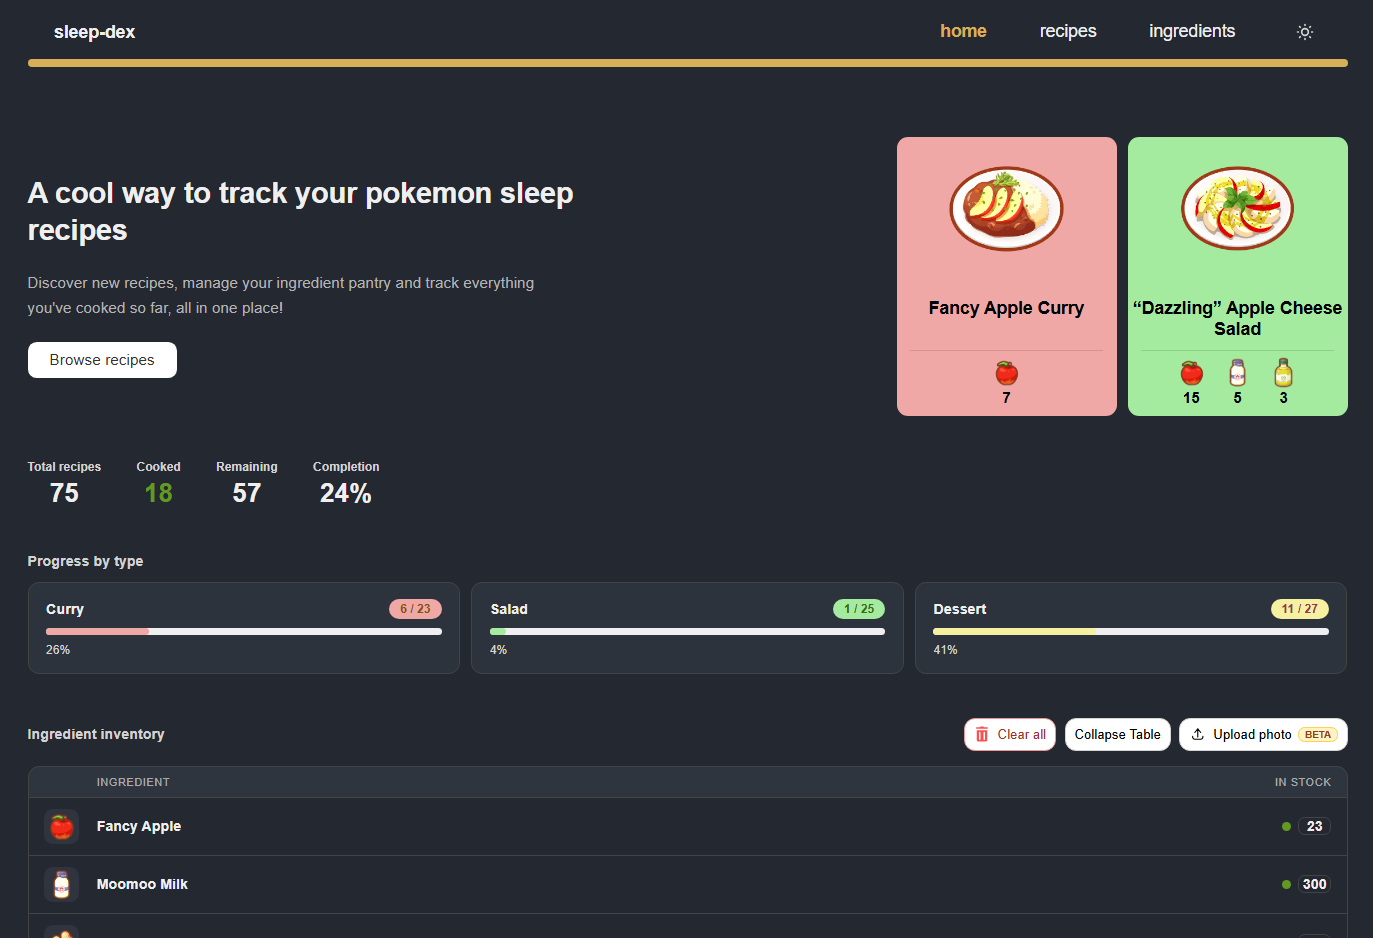
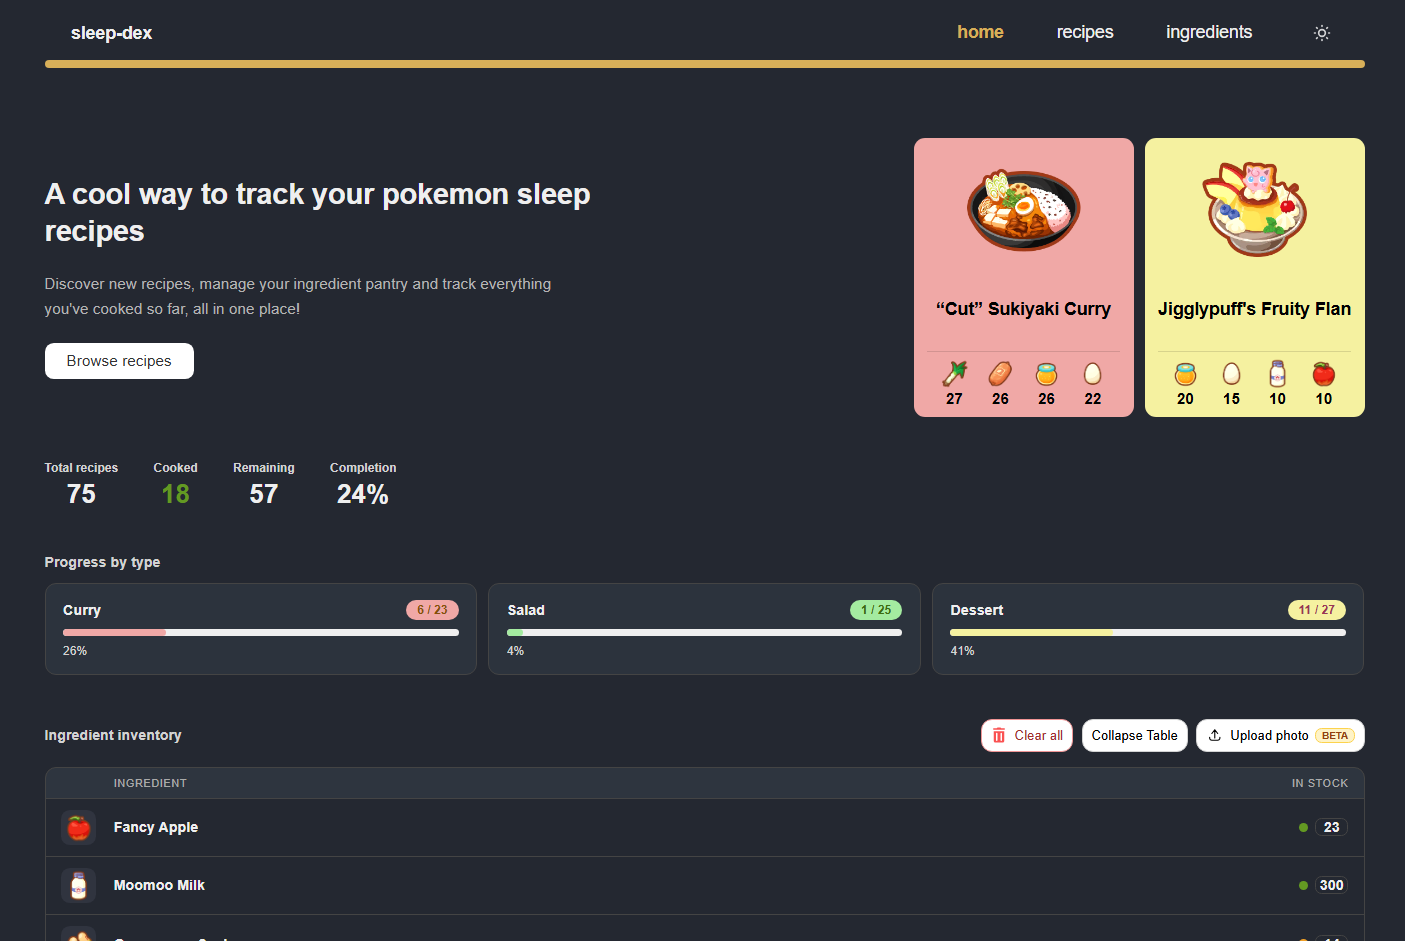
slight changes to UI and theme service

diff --git a/src/app/shared/components/navbar/navbar.html b/src/app/shared/components/navbar/navbar.html
@@ -4,9 +4,9 @@
             <li class="main"><a routerLink="/" >sleep-dex</a></li>
 
             <div class="nav-links">
-                <li><a routerLink="/" routerLinkActive="active" [routerLinkActiveOptions]="{ exact: true }">home</a></li>
-                <li><a routerLink="/recipes" routerLinkActive="active">recipes</a></li>
-                <li><a routerLink="/ingredients" routerLinkActive="active">ingredients</a></li>
+                <li><a routerLink="/" routerLinkActive="active" [routerLinkActiveOptions]="{ exact: true }">Home</a></li>
+                <li><a routerLink="/recipes" routerLinkActive="active">Recipes</a></li>
+                <li><a routerLink="/ingredients" routerLinkActive="active">Ingredients</a></li>
                 
                 <li>
                     <button class="theme-btn" (click)="themeService.toggle()">
@@ -28,9 +28,9 @@
     </div>
     <div class="seperator"></div>
     <div class="mobile-drawer" [class.open]="menuOpen">
-        <a routerLink="/" routerLinkActive="active" (click)="toggleMenu()" [routerLinkActiveOptions]="{ exact: true }">home</a>
-        <a routerLink="/recipes" routerLinkActive="active" (click)="toggleMenu()">recipes</a>
-        <a routerLink="/ingredients" routerLinkActive="active" (click)="toggleMenu()">ingredients</a>
+        <a routerLink="/" routerLinkActive="active" (click)="toggleMenu()" [routerLinkActiveOptions]="{ exact: true }">Home</a>
+        <a routerLink="/recipes" routerLinkActive="active" (click)="toggleMenu()">Recipes</a>
+        <a routerLink="/ingredients" routerLinkActive="active" (click)="toggleMenu()">Ingredients</a>
         
         <button class="theme-btn drawer-theme-btn" (click)="themeService.toggle()" [title]="themeService.isDark ? 'Switch to light mode' : 'Switch to dark mode'">
             <img src="assets/images/sun_icon.svg" width="18" height="18" alt="" *ngIf="themeService.isDark">

diff --git a/src/app/shared/components/footer/footer.html b/src/app/shared/components/footer/footer.html
@@ -9,9 +9,9 @@
 
     <div class="footer-section">
       <h4>Links</h4>
-      <a routerLink="/" routerLinkActive="active" [routerLinkActiveOptions]="{ exact: true }">home</a>
-      <a routerLink="/recipes" routerLinkActive="active">recipes</a>
-      <a routerLink="/ingredients" routerLinkActive="active">ingredients</a>
+      <a routerLink="/" routerLinkActive="active" [routerLinkActiveOptions]="{ exact: true }">Home</a>
+      <a routerLink="/recipes" routerLinkActive="active">Recipes</a>
+      <a routerLink="/ingredients" routerLinkActive="active">Ingredients</a>
     </div>
 
     <div class="footer-section">
@@ -23,7 +23,7 @@
           [disabled]="sending || submitted">
         </textarea>
         <button (click)="sendFeedback()" [disabled]="sending || submitted">
-          {{ submitted ? 'sent!' : error ? 'already sent feedback, try again later.' : 'send feedback' }}
+          {{ submitted ? 'Sent!' : error ? 'Already sent feedback, try again later.' : 'Send feedback' }}
         </button>
       </div>
     </div>

diff --git a/src/app/features/home/home.html b/src/app/features/home/home.html
@@ -14,11 +14,11 @@
             <div class="main-cards">
                 @if (recipes$ | async; as recipes) {
                     <app-recipe-card
-                        [recipe]="recipes[0]"
+                        [recipe]="recipes[21]"
                         [homePlaceHolder]="true">
                     </app-recipe-card>
                     <app-recipe-card
-                        [recipe]="recipes[55]"
+                        [recipe]="recipes[42]"
                         [homePlaceHolder]="true"
                         class="salad-card">
                     </app-recipe-card>

diff --git a/src/app/services/theme-service.ts b/src/app/services/theme-service.ts
@@ -12,7 +12,7 @@ export class ThemeService {
     const saved = localStorage.getItem(this.darkModeStorageKey);
     this.isDark = saved !== null
       ? this.isDark = saved === 'true'
-      : this.isDark = false;
+      : this.isDark = window.matchMedia && window.matchMedia('(prefers-color-scheme: dark)').matches;
     this.apply();
   }
 
